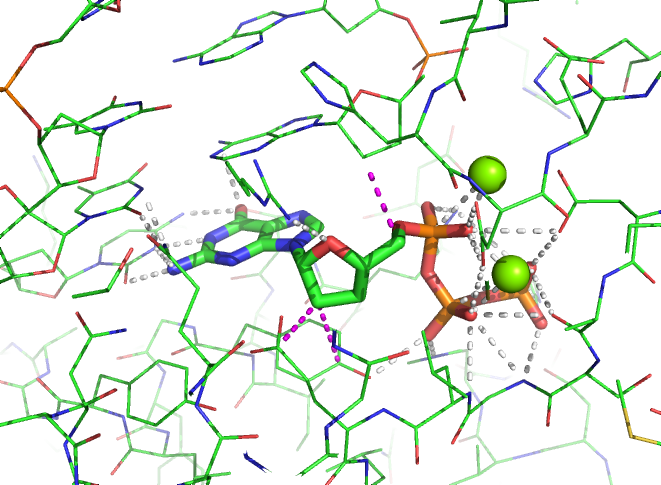
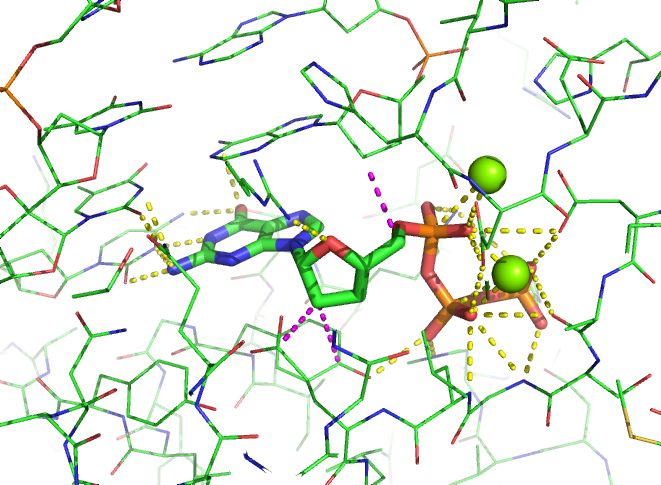
oops. white on white isn't a good idea

diff --git a/PNA/problem_set11/1t7p_interaction_script.py b/PNA/problem_set11/1t7p_interaction_script.py
@@ -118,7 +118,7 @@ with open( pml_filename, "wb" ) as fh:
     fh.write( "group polar_contacts, polar*\n" )
     fh.write( "show sticks, resn DG3\n" )
     fh.write( "color magenta, vdw_contacts\n" )
-    fh.write( "color white, polar_contacts\n" )
+    fh.write( "color yellow, polar_contacts\n" )
     fh.write( "hide labels\n" )
     fh.write( "show spheres, resn MG\n" )
     fh.write( "set sphere_scale, 0.4\n" )
@@ -132,4 +132,4 @@ with open( pml_filename, "wb" ) as fh:
     41.054149628,   61.524391174,  -20.000000000 )" )
 print "\nDumped '1t7p_interactions.pml' in your working directory. Run with @1t7p_interactions.pml in pymol"
 print "Van der Waals contacts are colored in magenta"
-print "H-bond/electrostatic contacts are colored in white\n"
+print "H-bond/electrostatic contacts are colored in yellow\n"
